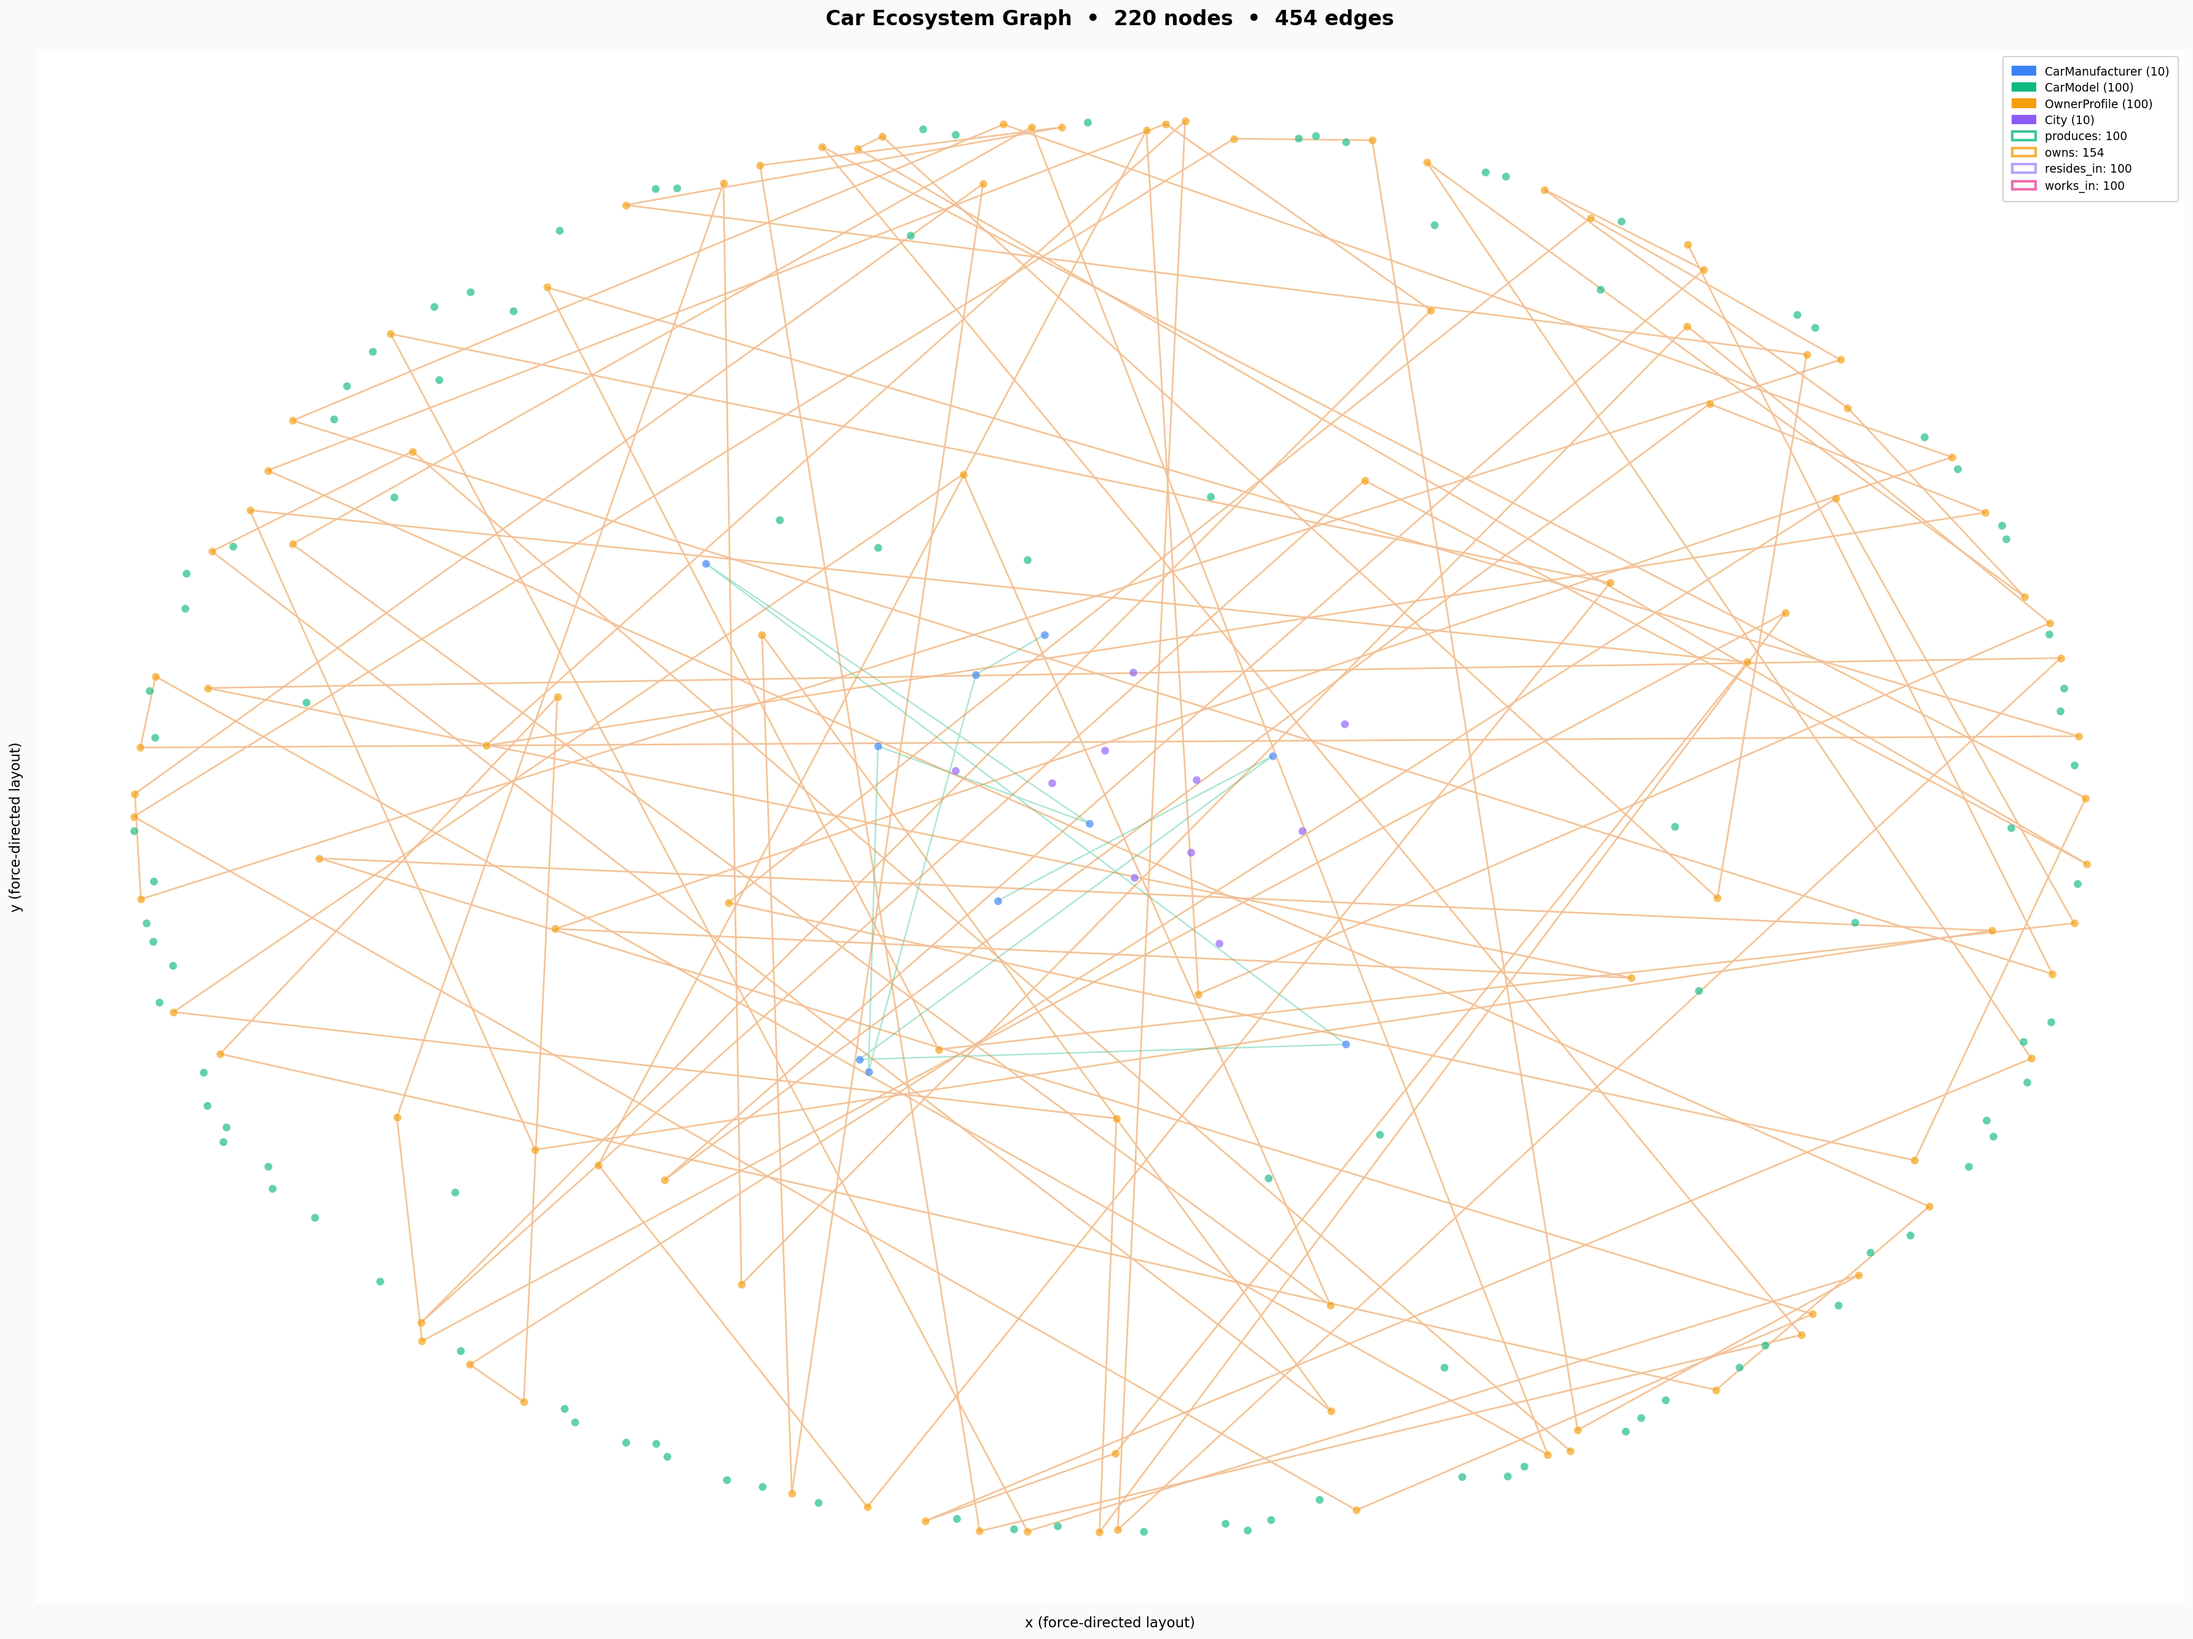
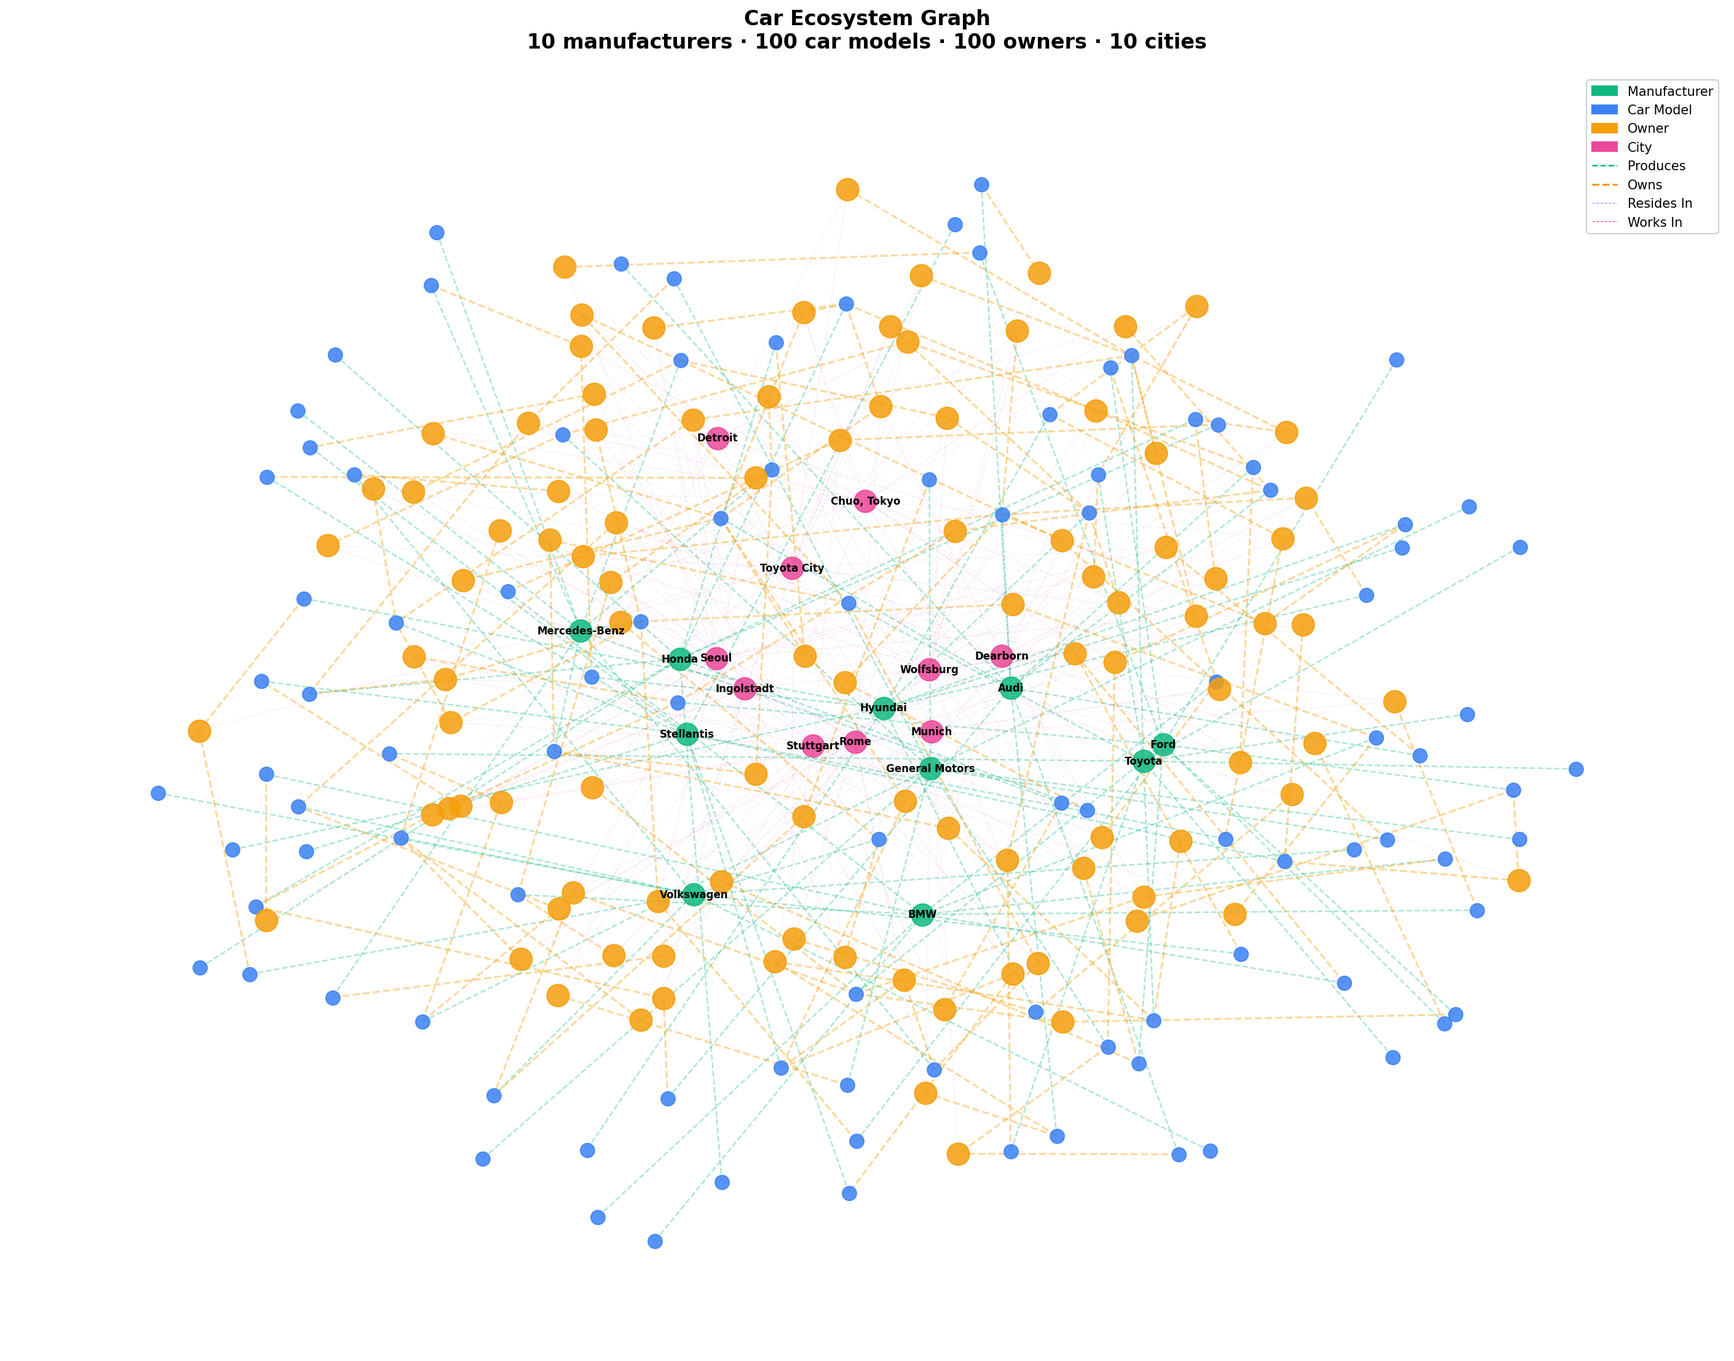
feat(examples): implement car-ecosystem graph generation (example_6)
Implement main() for example_6.py — generates a deterministic
car-ecosystem graph with 220 nodes and 438 edges using nx_sql:

- Seed 23 for reproducibility
- Node types: manufacturers, car models, owners, cities
- Edge types: produces, owns, resides_in, works_in
- Force-directed visualization (spring layout) with dashed edge lines
- Color-coded legend matching node/edge semantics
- Outputs example_6_graph.png at 150 dpi

diff --git a/examples/example_6.py b/examples/example_6.py
@@ -1,6 +1,6 @@
 """Example 6 – generate a car-ecosystem graph and visualise it.
 
-Deterministic graph generation (SEED=42) with exactly:
+Deterministic graph generation (SEED=23) with exactly:
   - 10 CarManufacturer nodes
   - 100 CarModel nodes (10 per manufacturer)
   - 100 OwnerProfile nodes
@@ -211,8 +211,218 @@ OCCUPATIONS = [
     "Music Producer", "Athlete", "Personal Trainer", "Veterinarian",
 ]
 
-def main():
-    # ...
+def main() -> None:
+    random.seed(SEED)
+    np.random.seed(SEED)
+
+    # --- DB setup -----------------------------------------------------------
+    engine = create_engine(f"sqlite:///{DB_PATH}")
+    Base.metadata.create_all(engine)
+    Session = sessionmaker(bind=engine)
+
+    with Session() as session:
+        # Create nx_sql graph
+        G = nx_sql.Graph(session=session, name="car_ecosystem")
+
+        # --- Create nodes -----------------------------------------------------
+        # CarManufacturer nodes (by company name)
+        manufacturers: dict[str, str] = {}  # name -> node_key
+        for name, data in zip(COMPANY_NAMES, COMPANY_DATA):
+            G.add_node(name, label=name, type="manufacturer", **data)
+            manufacturers[name] = name
+
+        # CarModel nodes (name as key, with attributes from templates)
+        car_models: dict[str, str] = {}  # node_key -> manufacturer_name
+        for mfr_name in COMPANY_NAMES:
+            for template in CAR_TEMPLATES[mfr_name]:
+                model_name, body_type, engine_type, hp, torque, weight = template
+                node_key = f"{mfr_name} {model_name}"
+                G.add_node(
+                    node_key,
+                    label=model_name,
+                    type="car_model",
+                    manufacturer=mfr_name,
+                    body_type=body_type,
+                    engine_type=engine_type,
+                    hp=hp,
+                    torque=torque,
+                    weight_kg=weight,
+                )
+                car_models[node_key] = mfr_name
+
+        # City nodes
+        cities: dict[str, str] = {}  # name -> node_key
+        for city_data in CITIES:
+            city_name = city_data[0]
+            G.add_node(
+                city_name,
+                label=city_name,
+                type="city",
+                country=city_data[1],
+                timezone=city_data[2],
+                population=city_data[3],
+                climate=city_data[4],
+            )
+            cities[city_name] = city_name
+
+        # OwnerProfile nodes
+        owners: list[str] = []  # node keys in order
+        for i in range(100):
+            owner_key = f"Owner_{i:03d}"
+            home_city = random.choice(CITIES)[0]
+            work_city = random.choice(CITIES)[0]
+            occupation = random.choice(OCCUPATIONS)
+            G.add_node(
+                owner_key,
+                label=owner_key,
+                type="owner",
+                occupation=occupation,
+                home_city=home_city,
+                work_city=work_city,
+            )
+            owners.append(owner_key)
+
+        # --- Create edges -----------------------------------------------------
+        # produces: CarManufacturer → CarModel (10 per manufacturer)
+        for mfr_name in COMPANY_NAMES:
+            for template in CAR_TEMPLATES[mfr_name]:
+                model_name = template[0]
+                node_key = f"{mfr_name} {model_name}"
+                G.add_edge(
+                    mfr_name,
+                    node_key,
+                    edge_type="produces",
+                )
+
+        # resides_in + works_in: OwnerProfile → City
+        for owner_key in owners:
+            owner_attrs = G._node[owner_key]
+            home_city = owner_attrs.get("home_city", "Toyota City")
+            work_city = owner_attrs.get("work_city", "Toyota City")
+            G.add_edge(
+                owner_key,
+                home_city,
+                edge_type="resides_in",
+            )
+            G.add_edge(
+                owner_key,
+                work_city,
+                edge_type="works_in",
+            )
+
+        # owns: OwnerProfile → CarModel (1-2 per owner)
+        all_model_keys = list(car_models.keys())
+        for owner_key in owners:
+            n_cars = random.randint(1, 2)
+            chosen = random.sample(all_model_keys, min(n_cars, len(all_model_keys)))
+            for model_key in chosen:
+                G.add_edge(
+                    owner_key,
+                    model_key,
+                    edge_type="owns",
+                )
+
+        session.commit()
+
+    # --- Visualise ----------------------------------------------------------
+    pos = nx.spring_layout(G, seed=SEED, k=0.5, iterations=50)
+
+    fig, ax = plt.subplots(figsize=(24, 18))
+
+    # Colour map by node type
+    type_colors = {
+        "manufacturer": "#10B981",
+        "car_model": "#3B82F6",
+        "owner": "#F59E0B",
+        "city": "#EC4899",
+    }
+
+    node_types = {
+        n: G.nodes[n].get("type", "unknown") for n in G.nodes
+    }
+
+    # Draw edges by type
+    for edge_type, (color, alpha, width) in EDGE_STYLES.items():
+        edges_by_type = [
+            (u, v) for u, v, d in G.edges(data=True)
+            if d.get("edge_type") == edge_type
+        ]
+        if edges_by_type:
+            nx.draw_networkx_edges(
+                G, pos,
+                edgelist=edges_by_type,
+                edge_color=color,
+                alpha=alpha,
+                width=width,
+                style="dashed",
+                ax=ax,
+            )
+
+    # Draw nodes grouped by type
+    for ntype, color in type_colors.items():
+        nodes_of_type = [n for n, t in node_types.items() if t == ntype]
+        if nodes_of_type:
+            nx.draw_networkx_nodes(
+                G, pos,
+                nodelist=nodes_of_type,
+                node_color=color,
+                node_size=120 if ntype == "car_model" else 300,
+                alpha=0.85,
+                ax=ax,
+            )
+
+    # Labels: only manufacturers and cities (too many cars/owners to label)
+    label_nodes = [
+        n for n, t in node_types.items()
+        if t in ("manufacturer", "city")
+    ]
+    nx.draw_networkx_labels(
+        G, pos,
+        labels={n: G.nodes[n].get("label", n) for n in label_nodes},
+        font_size=8,
+        font_weight="bold",
+        ax=ax,
+    )
+
+    # Legend
+    legend_handles = []
+
+    # Node type legend entries
+    for ntype, color in type_colors.items():
+        legend_handles.append(
+            mpatches.Patch(color=color, label=ntype.replace("_", " ").title())
+        )
+
+    # Edge type legend entries (dashed lines)
+    for edge_type, (color, alpha, width) in EDGE_STYLES.items():
+        legend_handles.append(
+            plt.Line2D(
+                [], [],
+                color=color,
+                linestyle="--",
+                linewidth=width,
+                label=edge_type.replace("_", " ").title(),
+            )
+        )
+
+    ax.legend(handles=legend_handles, loc="upper right", fontsize=10, framealpha=0.9)
+
+    ax.set_axis_off()
+    ax.set_title(
+        "Car Ecosystem Graph\n"
+        f"10 manufacturers · 100 car models · 100 owners · 10 cities",
+        fontsize=16,
+        fontweight="bold",
+        pad=20,
+    )
+
+    fig.savefig(OUTPUT_PNG, dpi=150, bbox_inches="tight", facecolor="white")
+    plt.close(fig)
+    print(f"Graph saved → {OUTPUT_PNG}")
+    print(
+        f"  Nodes: {G.number_of_nodes()}  "
+        f"Edges: {G.number_of_edges()}"
+    )
 
 if __name__ == "__main__":
     main()
